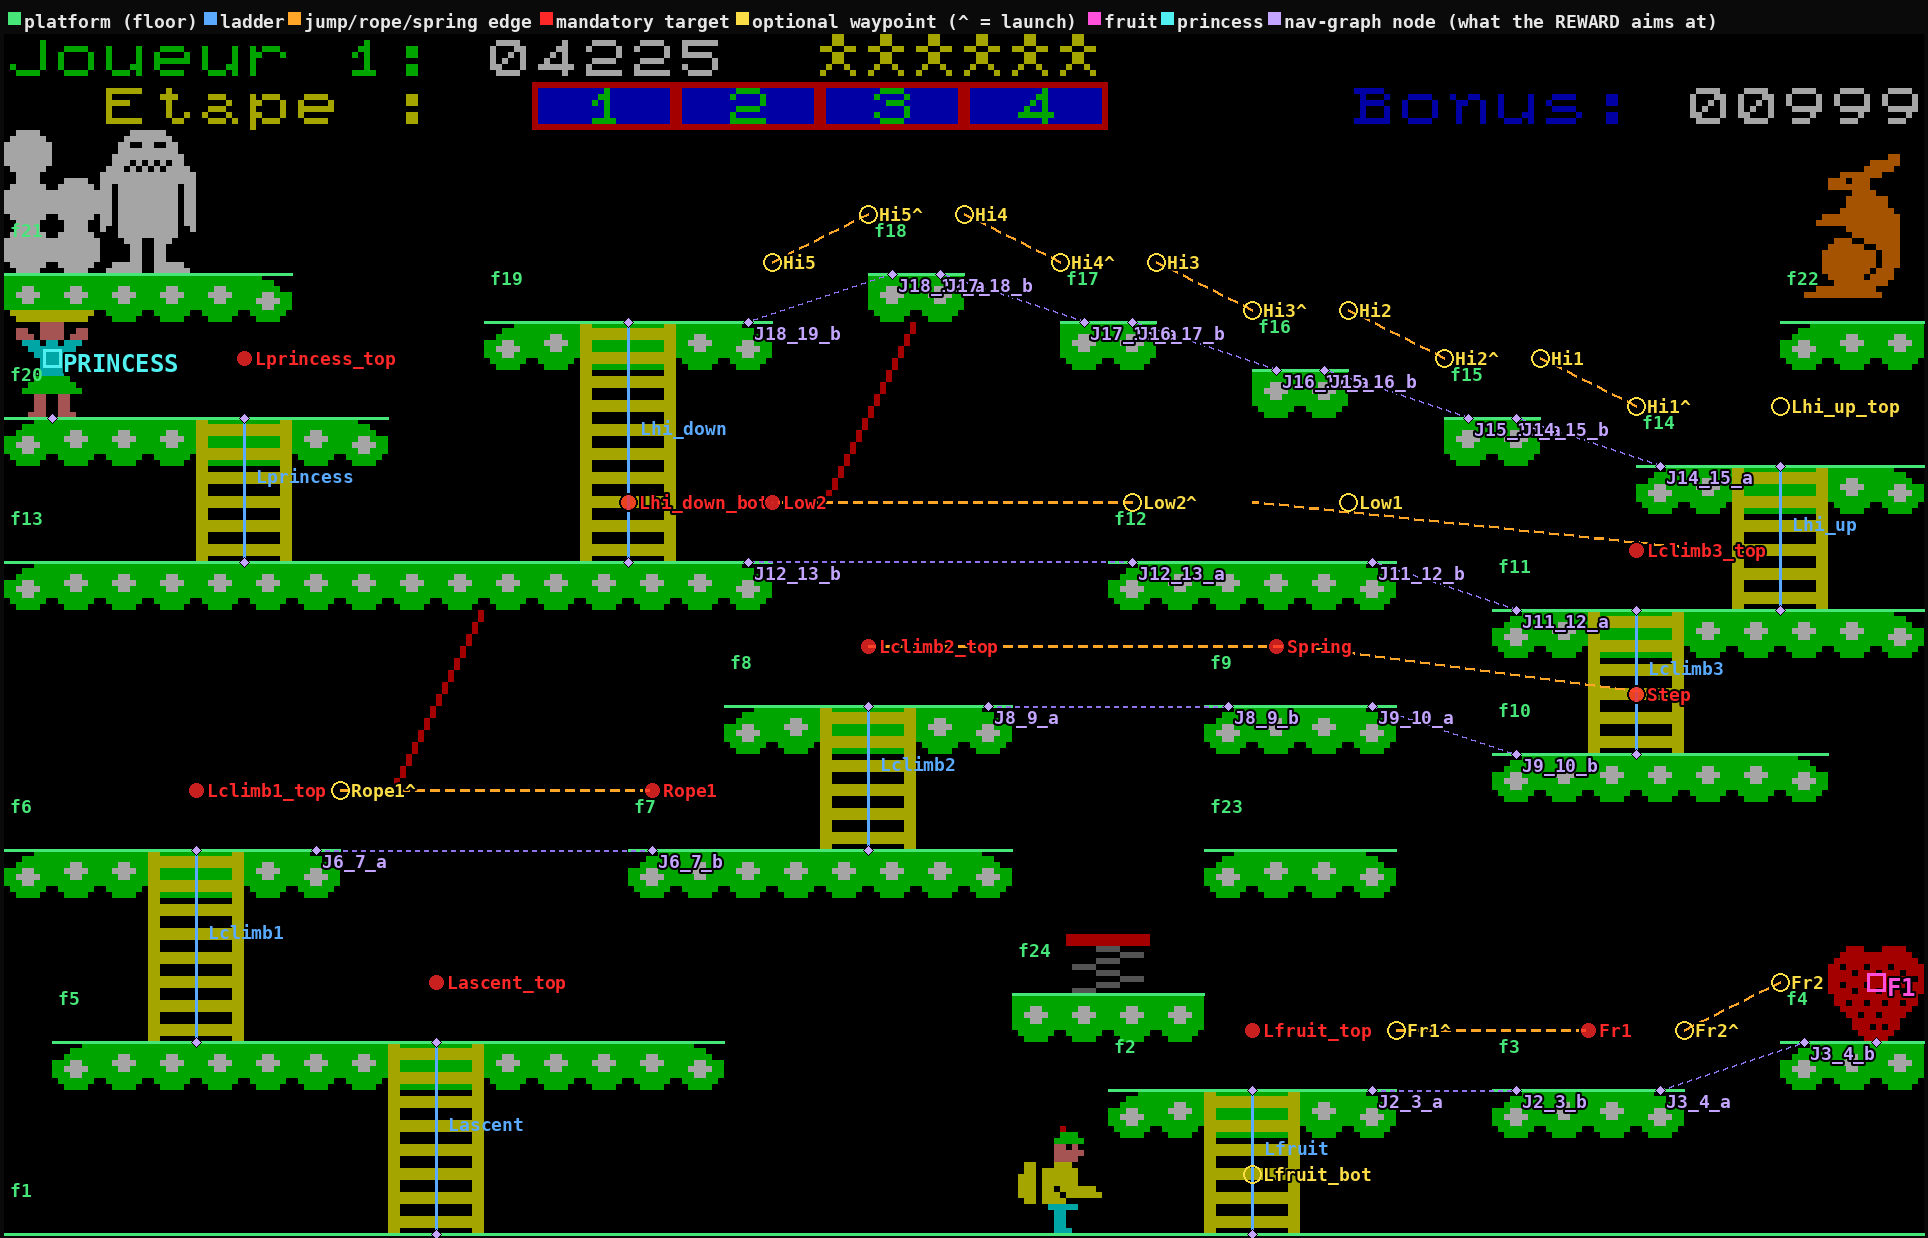
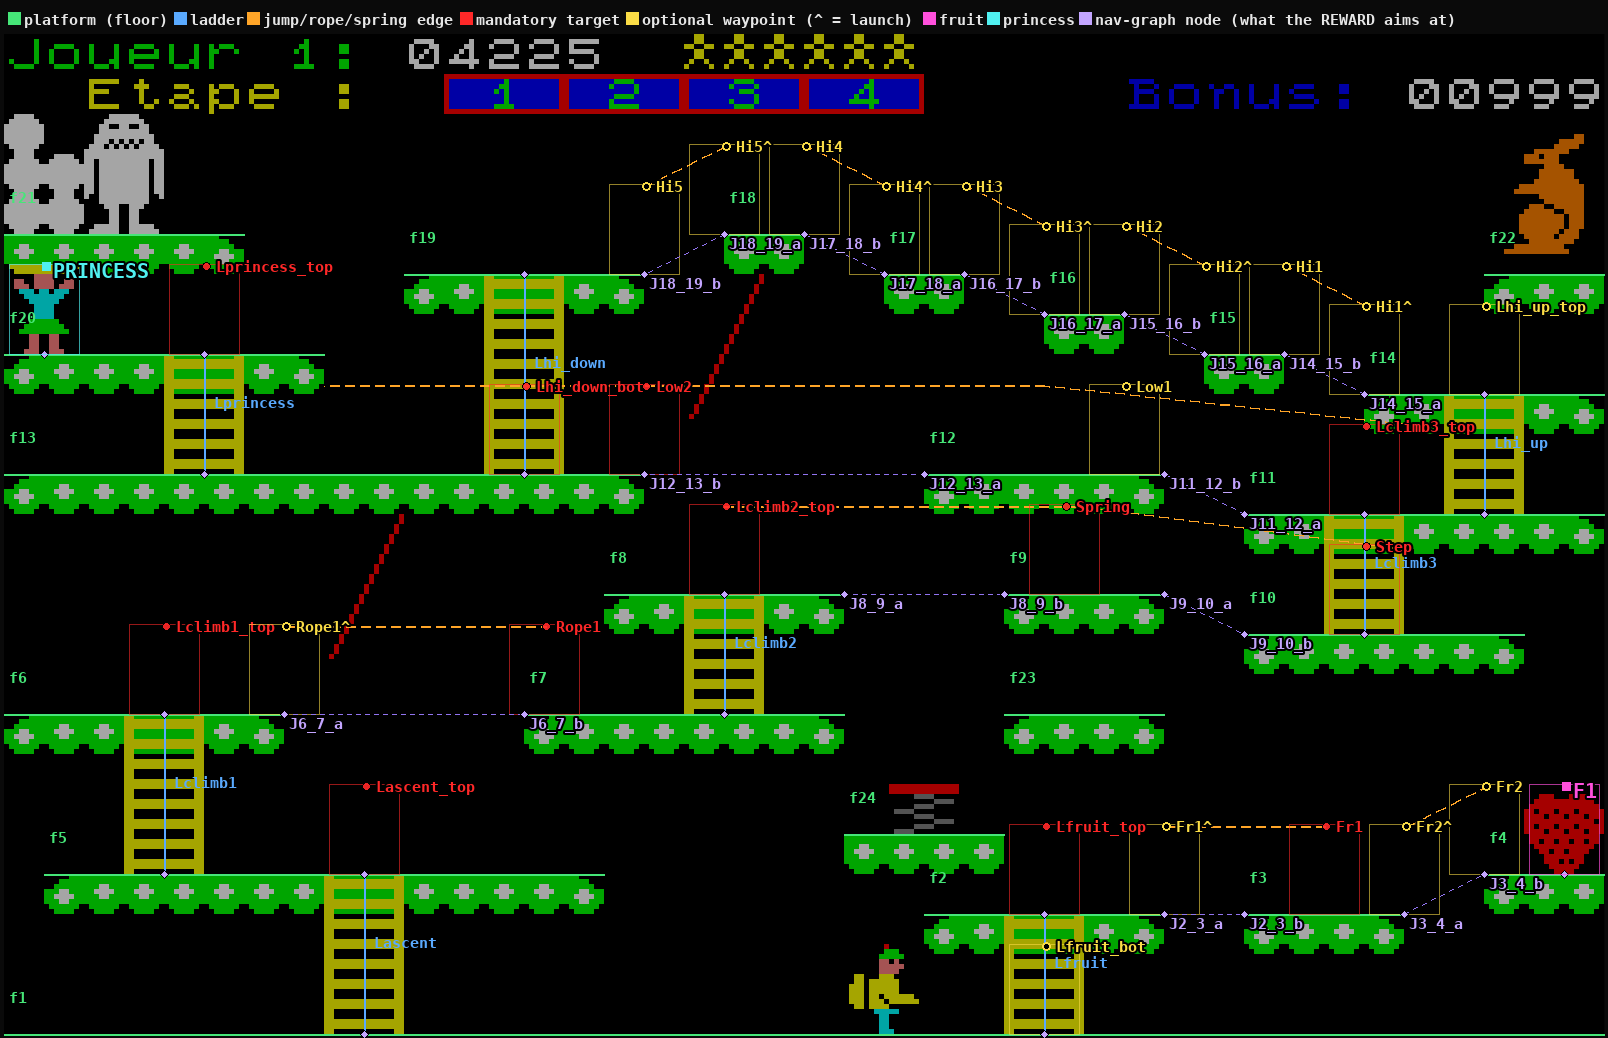
fix(l1-map): measured standing heights; maps draw anchors where the reach test sees them
L1 floor_top_y {184,152,120,88,56} -> {182,150,118,86,54}, the measured
standing Y (v17 seed pools and a reset). It was 2 px low on every floor;
L2-L4 already matched. Floor surface = Y + 18 now lands on the tilemap's
floor rows (test_level1_heights). Measured on 563 champion frames: 105
frames at y = floor - 8 now resolve to the floor instead of the ladder;
PBRS totals per climb are unchanged. Ladder anchors move 2 px, so seed
pools captured before this fail the anchor-provenance check.

Fruit and princess y set to the standing Y of their floor on L1 and L2
(they had no single rule: +0, +2, +6, +10, +18). Only the map drawing
reads that y. test_fruit_and_princess_stand_on_their_floor covers all
levels; it fails on the old L1 and L2 data.

draw_level_map.py drew ladders at foot level (Y+18) and anchors at
mid-body (Y+8), so anchors floated off the ladder ends. Measured on live
L1 and L4 frames, the sprite fills rows Y..Y+17 and columns
centre-7..centre+6. An anchor is now drawn on its pixel (px, Y), which is
what the sprite reach test checks, with the outline of an agent standing
on it; the outline's bottom edge is the floor surface. Fruits and princess
use the same marker. Sprite size comes from targets.SPRITE_W/H. Also
handles levels without platforms or jump edges (L1).

Re-rendered level1_authored_map.png (new) and level4_authored_map.png.

diff --git a/scripts/mo5/yeti/draw_level_map.py b/scripts/mo5/yeti/draw_level_map.py
@@ -32,8 +32,16 @@ only standable to 124.
 So: violet diamonds are what the REWARD sees, coloured circles are what the
 CURRICULUM sees, and any place they do not coincide is worth explaining.
 
-Coordinate conventions (see yeti_map docstring): sprite centre is
-(x_ram*4 + 8, y + 8); a floor's visible surface is standing_y + 18.
+Coordinate conventions. The Y byte is the TOP row of the agent's sprite, and an
+anchor's y is the Y byte of an agent standing on it. Measured on live frames (L1 and
+L4 reset, Y 182): the sprite fills rows y .. y+17 and columns centre-7 .. centre+6,
+centre = x_ram*4 + 8. The floor tiles start at y + 18.
+
+So a waypoint is drawn as what the sprite reach test checks: a dot on the anchor
+PIXEL (px, y), plus the outline of an agent standing on it. The outline's bottom
+edge is the floor surface, where ladders end and graph nodes sit. Drawing the
+anchor at any other row (this script used y + 8 until 2026-10-09) puts it beside
+the ladder end it belongs to, or outside the sprite that reaches it.
 
 Usage::
 
@@ -48,12 +56,14 @@ import argparse
 
 from PIL import Image, ImageDraw, ImageFont
 from retro_ai.games import yeti
-from retro_ai.training.targets import build_targets
+from retro_ai.training.targets import SPRITE_H, SPRITE_W, build_targets
 from retro_ai.training.yeti_map import build_navigation_map, get_level_map
 
 FONT = "/usr/share/fonts/dejavu-sans-mono-fonts/DejaVuSansMono-Bold.ttf"
-SURFACE_DY = 18  # standing_y -> visible floor surface
-CENTRE_DY = 8  # standing_y -> sprite centre
+SURFACE_DY = SPRITE_H  # standing_y -> visible floor surface (first tile row)
+# The reach test's sprite span around the centre pixel: centre-7 .. centre+6.
+SPRITE_LEFT = SPRITE_W // 2
+SPRITE_RIGHT = SPRITE_W // 2 - 1
 
 PLATFORM = (70, 230, 120)
 LADDER = (90, 170, 255)
@@ -114,8 +124,8 @@ def draw(level, frame_path, out_path, scale=5, nodes=True):
         [pad_l, pad_t, pad_l + img.width, pad_t + img.height], fill=(0, 0, 0, 90)
     )
 
-    # platforms
-    for p in lvl.platforms:
+    # platforms (L1 and L2 define none: their maps are ladders only)
+    for p in lvl.platforms or ():
         y = p.y + SURFACE_DY
         d.line([P(p.x_min, y), P(p.x_max, y)], fill=PLATFORM, width=max(2, scale // 2))
         d.text(P(p.x_min + 1, y - 9), f"f{p.floor}", fill=PLATFORM, font=f_small)
@@ -129,31 +139,38 @@ def draw(level, frame_path, out_path, scale=5, nodes=True):
 
     # jump edges, launch -> landing, using the authored waypoint positions
     names = lvl.jump_waypoint_names or {}
-    for a, b in lvl.jump_edges:
+    for a, b in lvl.jump_edges or ():
         land = max(a, b)
         nm = names.get(land)
         if nm and nm in wps and f"{nm}_launch" in wps:
             (lx, ly, _), (ax, ay, _) = wps[f"{nm}_launch"], wps[nm]
-            p0 = P(lx * 4 + 8, ly + CENTRE_DY)
-            p1 = P(ax * 4 + 8, ay + CENTRE_DY)
+            p0 = P(lx * 4 + 8 + 0.5, ly + 0.5)
+            p1 = P(ax * 4 + 8 + 0.5, ay + 0.5)
         else:
             pf = {p.floor: p for p in lvl.platforms}
             pa, pb = pf[a], pf[b]
-            p0 = P((pa.x_min + pa.x_max) / 2, pa.y + CENTRE_DY)
-            p1 = P((pb.x_min + pb.x_max) / 2, pb.y + CENTRE_DY)
+            p0 = P((pa.x_min + pa.x_max) / 2, pa.y + 0.5)
+            p1 = P((pb.x_min + pb.x_max) / 2, pb.y + 0.5)
         _dashed(d, p0, p1, JUMP, width=max(2, scale // 2))
 
-    # waypoints
+    # waypoints: a dot on the anchor pixel, and the sprite of an agent standing on it
     r = max(4, int(scale * 1.5))
+    rd = max(3, int(scale * 0.9))
     for wid, (x_ram, y, _floor) in sorted(wps.items()):
-        cx, cy = P(x_ram * 4 + 8, y + CENTRE_DY)
+        px = x_ram * 4 + 8
         is_m = wid in mand_wp
         colour = MAND if is_m else OPT
-        box = [cx - r, cy - r, cx + r, cy + r]
+        d.rectangle(
+            [P(px - SPRITE_LEFT, y), P(px + SPRITE_RIGHT + 1, y + SPRITE_H)],
+            outline=colour + (150,),
+            width=1,
+        )
+        cx, cy = P(px + 0.5, y + 0.5)  # the centre of the anchor pixel
+        box = [cx - rd, cy - rd, cx + rd, cy + rd]
         if is_m:
-            d.ellipse(box, fill=colour + (200,), outline=(0, 0, 0), width=2)
+            d.ellipse(box, fill=colour + (230,), outline=(0, 0, 0), width=1)
         else:
-            d.ellipse(box, outline=colour, width=max(2, scale // 3))
+            d.ellipse(box, fill=(0, 0, 0), outline=colour, width=max(2, scale // 3))
         label = wid.replace("_launch", "^")
         d.text(
             (cx + r + 2, cy - r - 1),
@@ -173,7 +190,7 @@ def draw(level, frame_path, out_path, scale=5, nodes=True):
         by_ident = {n.ident: n for n in nav.nodes}
         # The graph's OWN edges, between node positions. Compare against the orange
         # dashed edge above, which is drawn between the waypoint positions.
-        for a, b in lvl.jump_edges:
+        for a, b in lvl.jump_edges or ():
             na, nb = by_ident.get(f"J{a}_{b}_a"), by_ident.get(f"J{a}_{b}_b")
             if na and nb:
                 _dashed(
@@ -208,29 +225,31 @@ def draw(level, frame_path, out_path, scale=5, nodes=True):
                     stroke_fill=(0, 0, 0),
                 )
 
-    # fruit + princess
-    for fid, (fx, fy) in lvl.fruit_centre_px.items():
-        cx, cy = P(fx, fy + CENTRE_DY)
-        d.rectangle([cx - r, cy - r, cx + r, cy + r], outline=FRUIT, width=3)
+    # fruit + princess: same convention as a waypoint. Their y is the standing Y of
+    # their floor (test_fruit_and_princess_stand_on_their_floor), so they get the
+    # standing-agent outline and a SQUARE on the point. The game detects these touches
+    # itself (presence byte, princess flag); nothing reads this y except this drawing.
+    def _stand_marker(x_px, y, colour, label):
+        d.rectangle(
+            [P(x_px - SPRITE_LEFT, y), P(x_px + SPRITE_RIGHT + 1, y + SPRITE_H)],
+            outline=colour + (170,),
+            width=1,
+        )
+        cx, cy = P(x_px + 0.5, y + 0.5)
+        d.rectangle([cx - rd, cy - rd, cx + rd, cy + rd], fill=colour)
         d.text(
-            (cx + r + 2, cy - r),
-            f"F{fid}",
-            fill=FRUIT,
+            (cx + rd + 2, cy - r),
+            label,
+            fill=colour,
             font=f_mid,
             stroke_width=2,
             stroke_fill=(0, 0, 0),
         )
+
+    for fid, (fx, fy) in lvl.fruit_centre_px.items():
+        _stand_marker(fx, fy, FRUIT, f"F{fid}")
     px, py = lvl.princess_centre_px
-    cx, cy = P(px, py + CENTRE_DY)
-    d.rectangle([cx - r, cy - r, cx + r, cy + r], outline=PRINCESS, width=3)
-    d.text(
-        (cx + r + 2, cy - r),
-        "PRINCESS",
-        fill=PRINCESS,
-        font=f_mid,
-        stroke_width=2,
-        stroke_fill=(0, 0, 0),
-    )
+    _stand_marker(px, py, PRINCESS, "PRINCESS")
 
     legend = [
         ("platform (floor)", PLATFORM),

diff --git a/python/retro_ai/training/yeti_map.py b/python/retro_ai/training/yeti_map.py
@@ -225,10 +225,28 @@ EDGE_INSET_PX = 4
 
 
 # Level 1 — original climb-up layout (floor 1 = bottom/spawn, 5 = princess).
+#
+# floor_top_y is where the agent STANDS (the Y RAM byte), MEASURED. It read
+# {184, 152, 120, 88, 56} until 2026-10-09: 2 px below the real standing height on
+# every floor, the only level that was off (L2, L3, L4 match their grounded seeds
+# exactly). Measured on L1 v17's seed pools and from a reset: 182 on the ground,
+# 150 / 118 / 86 / 54 on floors 2-5. A floor's visible surface is standing y + 18,
+# which now lands exactly on the floor tile rows of the extracted tilemap
+# (test_level1_heights_sit_on_the_tilemap). Visible as markers drawn inside the floor
+# tiles on the L1 map render. Effect on the floor lookup (+-8), measured on 563 frames
+# of the v17 champion: 105 frames change, all at y = floor - 8 (174/142/110/78), which
+# now resolve to the floor instead of the ladder segment. So on each climb one 4 px
+# shaping step lands one frame later; PBRS totals over a climb are unchanged. Ladder
+# waypoint anchors move 2 px too, so seed pools captured before this change fail the
+# anchor-provenance check and drop their ladder pools.
 LEVEL1 = LevelMap(
-    floor_top_y={1: 184, 2: 152, 3: 120, 4: 88, 5: 56},
+    floor_top_y={1: 182, 2: 150, 3: 118, 4: 86, 5: 54},
     floor_height=32,
-    fruit_centre_px={1: (184, 184), 2: (80, 150), 3: (144, 120), 4: (272, 88)},
+    # Fruit and princess y = the standing Y of their floor, as on L3/L4. They read
+    # 184/150/120/88 and princess 60 until 2026-10-09 (no single convention). Only the
+    # map drawing reads this y: fruits are detected by their presence byte, the
+    # princess by her flag, and the nav graph uses x only.
+    fruit_centre_px={1: (184, 182), 2: (80, 150), 3: (144, 118), 4: (272, 86)},
     fruit_floor={1: 1, 2: 2, 3: 3, 4: 4},
     # Ordered (name, TOP_floor, BOT_floor, x): top = higher on screen (smaller
     # y). L1 climbs up, so the top floor has the larger number here.
@@ -239,7 +257,7 @@ LEVEL1 = LevelMap(
         ("L34", 4, 3, 176),
         ("L45", 5, 4, 208),
     ],
-    princess_centre_px=(312, 60),
+    princess_centre_px=(312, 54),
     princess_floor=5,
 )
 
@@ -253,7 +271,9 @@ LEVEL1 = LevelMap(
 LEVEL2 = LevelMap(
     floor_top_y={1: 30, 2: 54, 3: 78, 4: 102, 5: 126, 6: 150},
     floor_height=24,
-    fruit_centre_px={1: (64, 136), 2: (264, 136)},
+    # Fruit and princess y = standing Y of their floor (were 136 and 168 until
+    # 2026-10-09; only the map drawing reads them, see LEVEL1).
+    fruit_centre_px={1: (64, 126), 2: (264, 126)},
     fruit_floor={1: 5, 2: 5},
     ladders=[
         ("L12a", 1, 2, 80),
@@ -265,7 +285,7 @@ LEVEL2 = LevelMap(
         ("L45b", 4, 5, 296),
         ("L56", 5, 6, 120),
     ],
-    princess_centre_px=(288, 168),
+    princess_centre_px=(288, 150),
     princess_floor=6,
 )
 

diff --git a/tests/python/test_yeti_map.py b/tests/python/test_yeti_map.py
@@ -4,14 +4,29 @@ from __future__ import annotations
 
 import pytest
 from retro_ai.training.yeti_map import (
+    LEVELS,
     agent_floor_from_pixel_y,
     build_navigation_map,
+    get_level_map,
 )
 
 
 @pytest.fixture(scope="module")
 def nav():
     return build_navigation_map()
+
+
+@pytest.mark.parametrize("level", sorted(LEVELS))
+def test_fruit_and_princess_stand_on_their_floor(level):
+    """A fruit's or the princess's y is the standing Y of its floor, like an anchor.
+
+    L1 and L2 had no single convention (y = standing +0, +2, +6, +10 or +18), which
+    drew their markers off the floor on the level maps. Only the drawing reads this y.
+    """
+    lvl = get_level_map(level)
+    for fid, (_x, y) in lvl.fruit_centre_px.items():
+        assert y == lvl.floor_top_y[lvl.fruit_floor[fid]], f"L{level} F{fid}"
+    assert lvl.princess_centre_px[1] == lvl.floor_top_y[lvl.princess_floor]
 
 
 def test_fixed_nodes_present(nav):
@@ -80,24 +95,26 @@ def test_path_distance_agent_at_target(nav):
 
 
 def test_agent_floor_from_pixel_y_standing():
-    """Standing y (within tolerance) resolves to correct floor."""
-    assert agent_floor_from_pixel_y(184) == 1
-    assert agent_floor_from_pixel_y(152) == 2
-    assert agent_floor_from_pixel_y(120) == 3
-    assert agent_floor_from_pixel_y(88) == 4
-    assert agent_floor_from_pixel_y(56) == 5
+    """Measured standing y (Y RAM byte, grounded) resolves to the correct floor."""
+    assert agent_floor_from_pixel_y(182) == 1
+    assert agent_floor_from_pixel_y(150) == 2
+    assert agent_floor_from_pixel_y(118) == 3
+    assert agent_floor_from_pixel_y(86) == 4
+    assert agent_floor_from_pixel_y(54) == 5
 
 
 def test_agent_floor_from_pixel_y_tolerance():
-    """8px tolerance around each floor top."""
-    assert agent_floor_from_pixel_y(180) == 1
-    assert agent_floor_from_pixel_y(192) == 1
+    """8px tolerance around each floor's standing y (floor 1 stands at 182)."""
+    assert agent_floor_from_pixel_y(174) == 1
+    assert agent_floor_from_pixel_y(190) == 1
+    assert agent_floor_from_pixel_y(173) is None
+    assert agent_floor_from_pixel_y(191) is None
 
 
 def test_agent_floor_from_pixel_y_mid_air_returns_none():
     """A y clearly between floors resolves to None."""
-    # Between floor 1 (y=184) and floor 2 (y=152): midpoint 168 is
-    # outside the 8px tolerance of either, so None.
+    # Between floor 1 (y=182) and floor 2 (y=150): 168 is outside the 8px
+    # tolerance of either, so None.
     assert agent_floor_from_pixel_y(168) is None
     # Death animation region.
     assert agent_floor_from_pixel_y(16) is None

diff --git a/tests/python/test_level1_heights.py b/tests/python/test_level1_heights.py
@@ -1,0 +1,47 @@
+"""L1's standing heights must put each floor's surface on that floor's tile row.
+
+L1 was the only level whose `floor_top_y` disagreed with where the agent stands: 2 px
+too low on every floor (184 vs a measured 182 on the ground, and so on up). Its markers
+then drew inside the floor tiles. The check uses the extracted tilemap
+(experiments/003-yeti/data/level_maps/level1_map.json), not a list of numbers, so it
+would also catch a future wrong edit in the other direction.
+
+No emulator needed.
+"""
+
+from __future__ import annotations
+
+import json
+import pathlib
+
+from retro_ai.training.yeti_map import get_level_map
+
+MAP = (
+    pathlib.Path(__file__).resolve().parents[2]
+    / "experiments/003-yeti/data/level_maps/level1_map.json"
+)
+SURFACE_DY = 18  # standing y -> the sprite's feet, i.e. the floor surface
+SCREEN_H = 200  # the ground floor has no tiles; its surface is the screen bottom
+
+
+def test_level1_heights_sit_on_the_tilemap():
+    lvl = get_level_map(1)
+    tile_tops = {
+        f["row"] * 8 for f in json.loads(MAP.read_text(encoding="utf-8"))["floors"]
+    }
+    for floor, y in lvl.floor_top_y.items():
+        surface = y + SURFACE_DY
+        if floor == 1:
+            assert (
+                surface == SCREEN_H
+            ), f"ground surface {surface}, not the screen bottom"
+        else:
+            assert surface in tile_tops, (
+                f"floor {floor}: standing y {y} puts the surface at {surface}, "
+                f"which is not a floor tile row {sorted(tile_tops)}"
+            )
+
+
+def test_level1_floors_are_one_floor_height_apart():
+    ys = [y for _, y in sorted(get_level_map(1).floor_top_y.items())]
+    assert all(a - b == 32 for a, b in zip(ys, ys[1:])), ys
